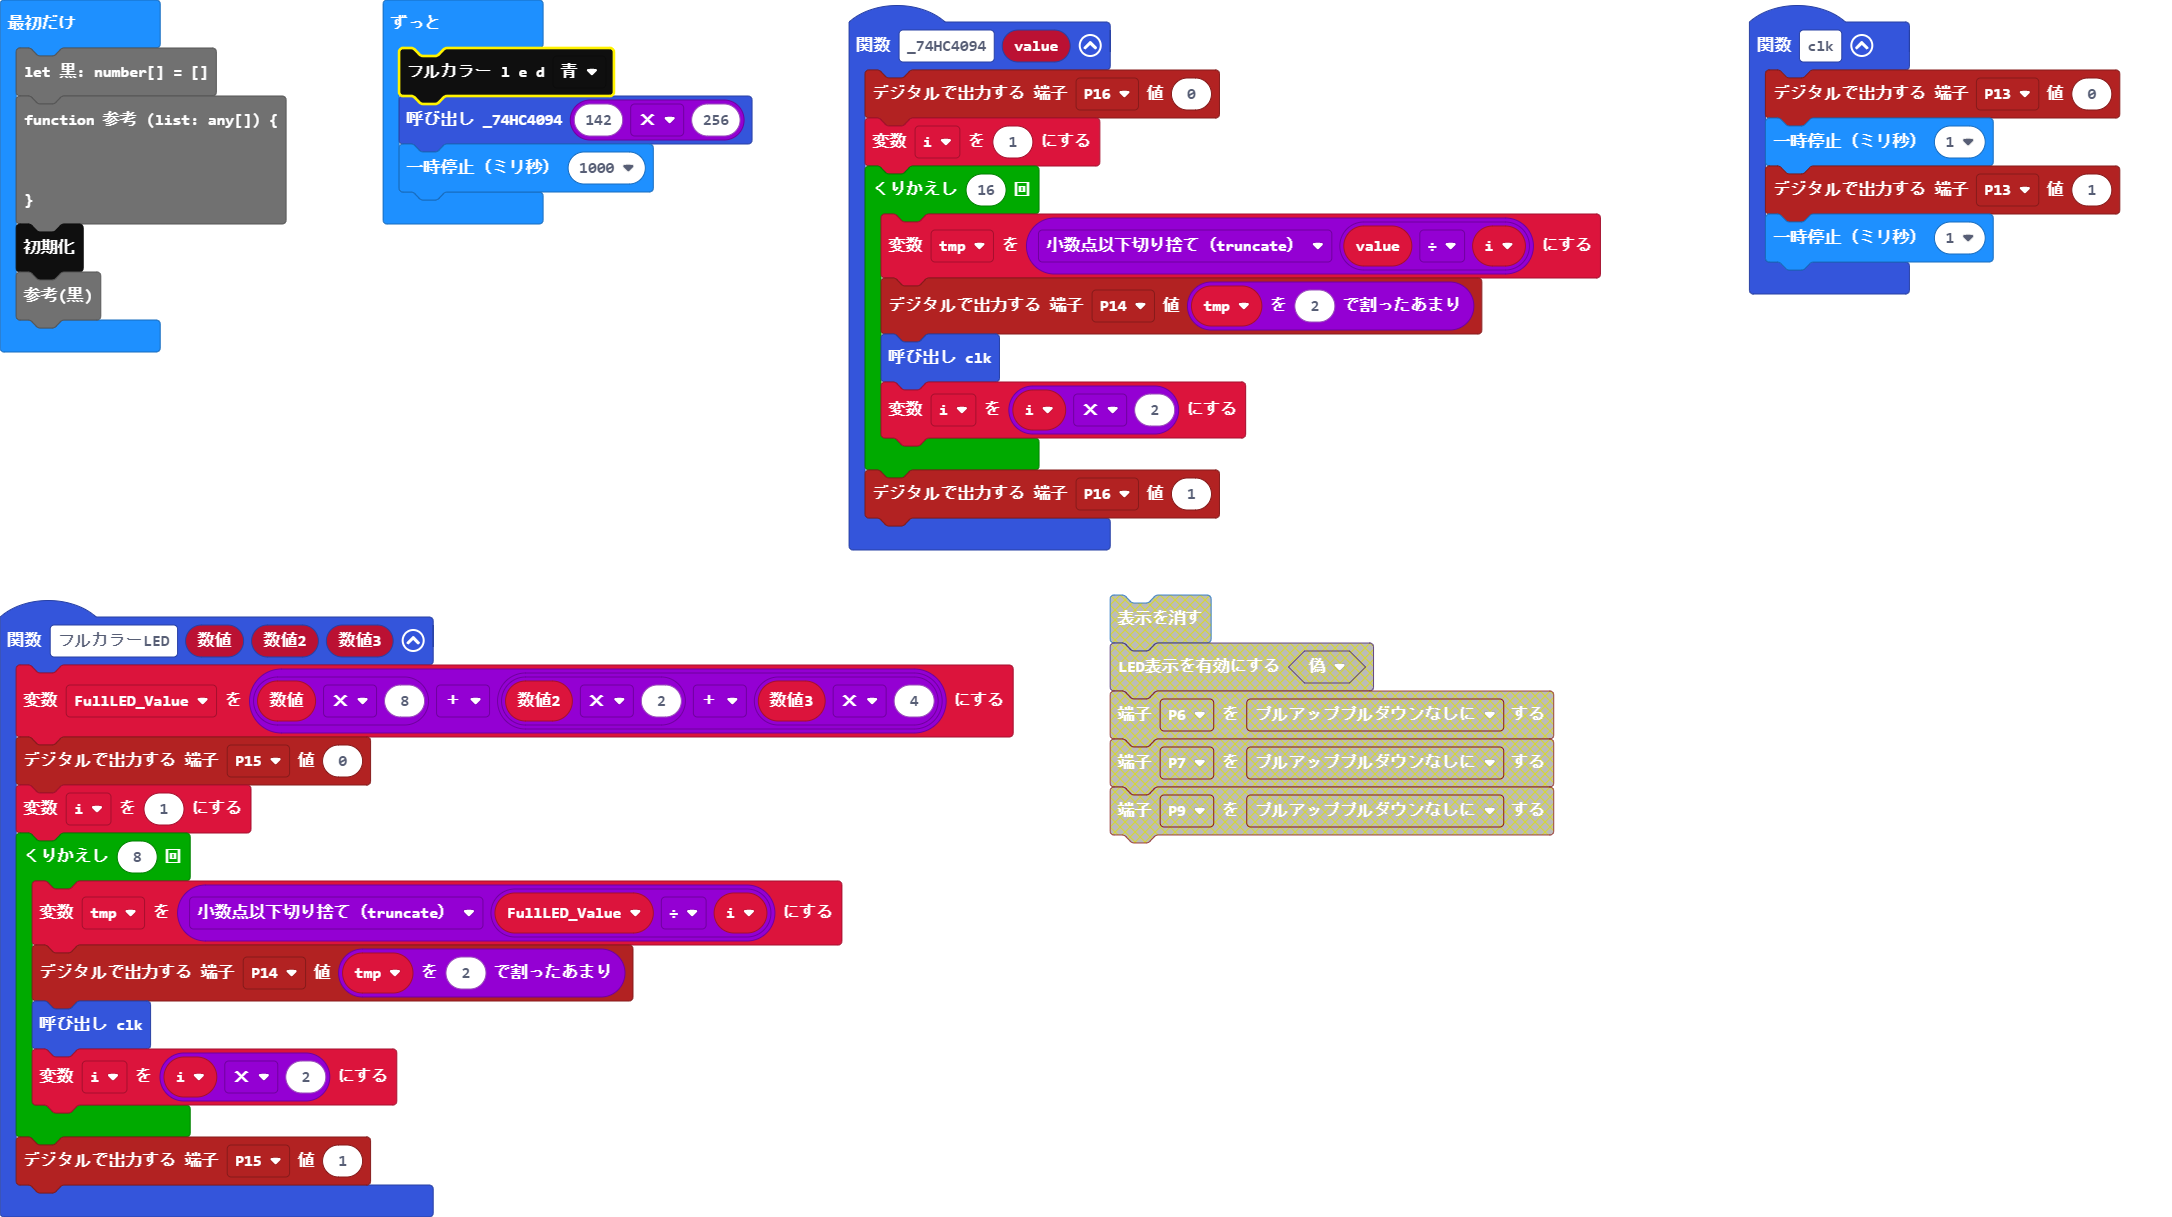
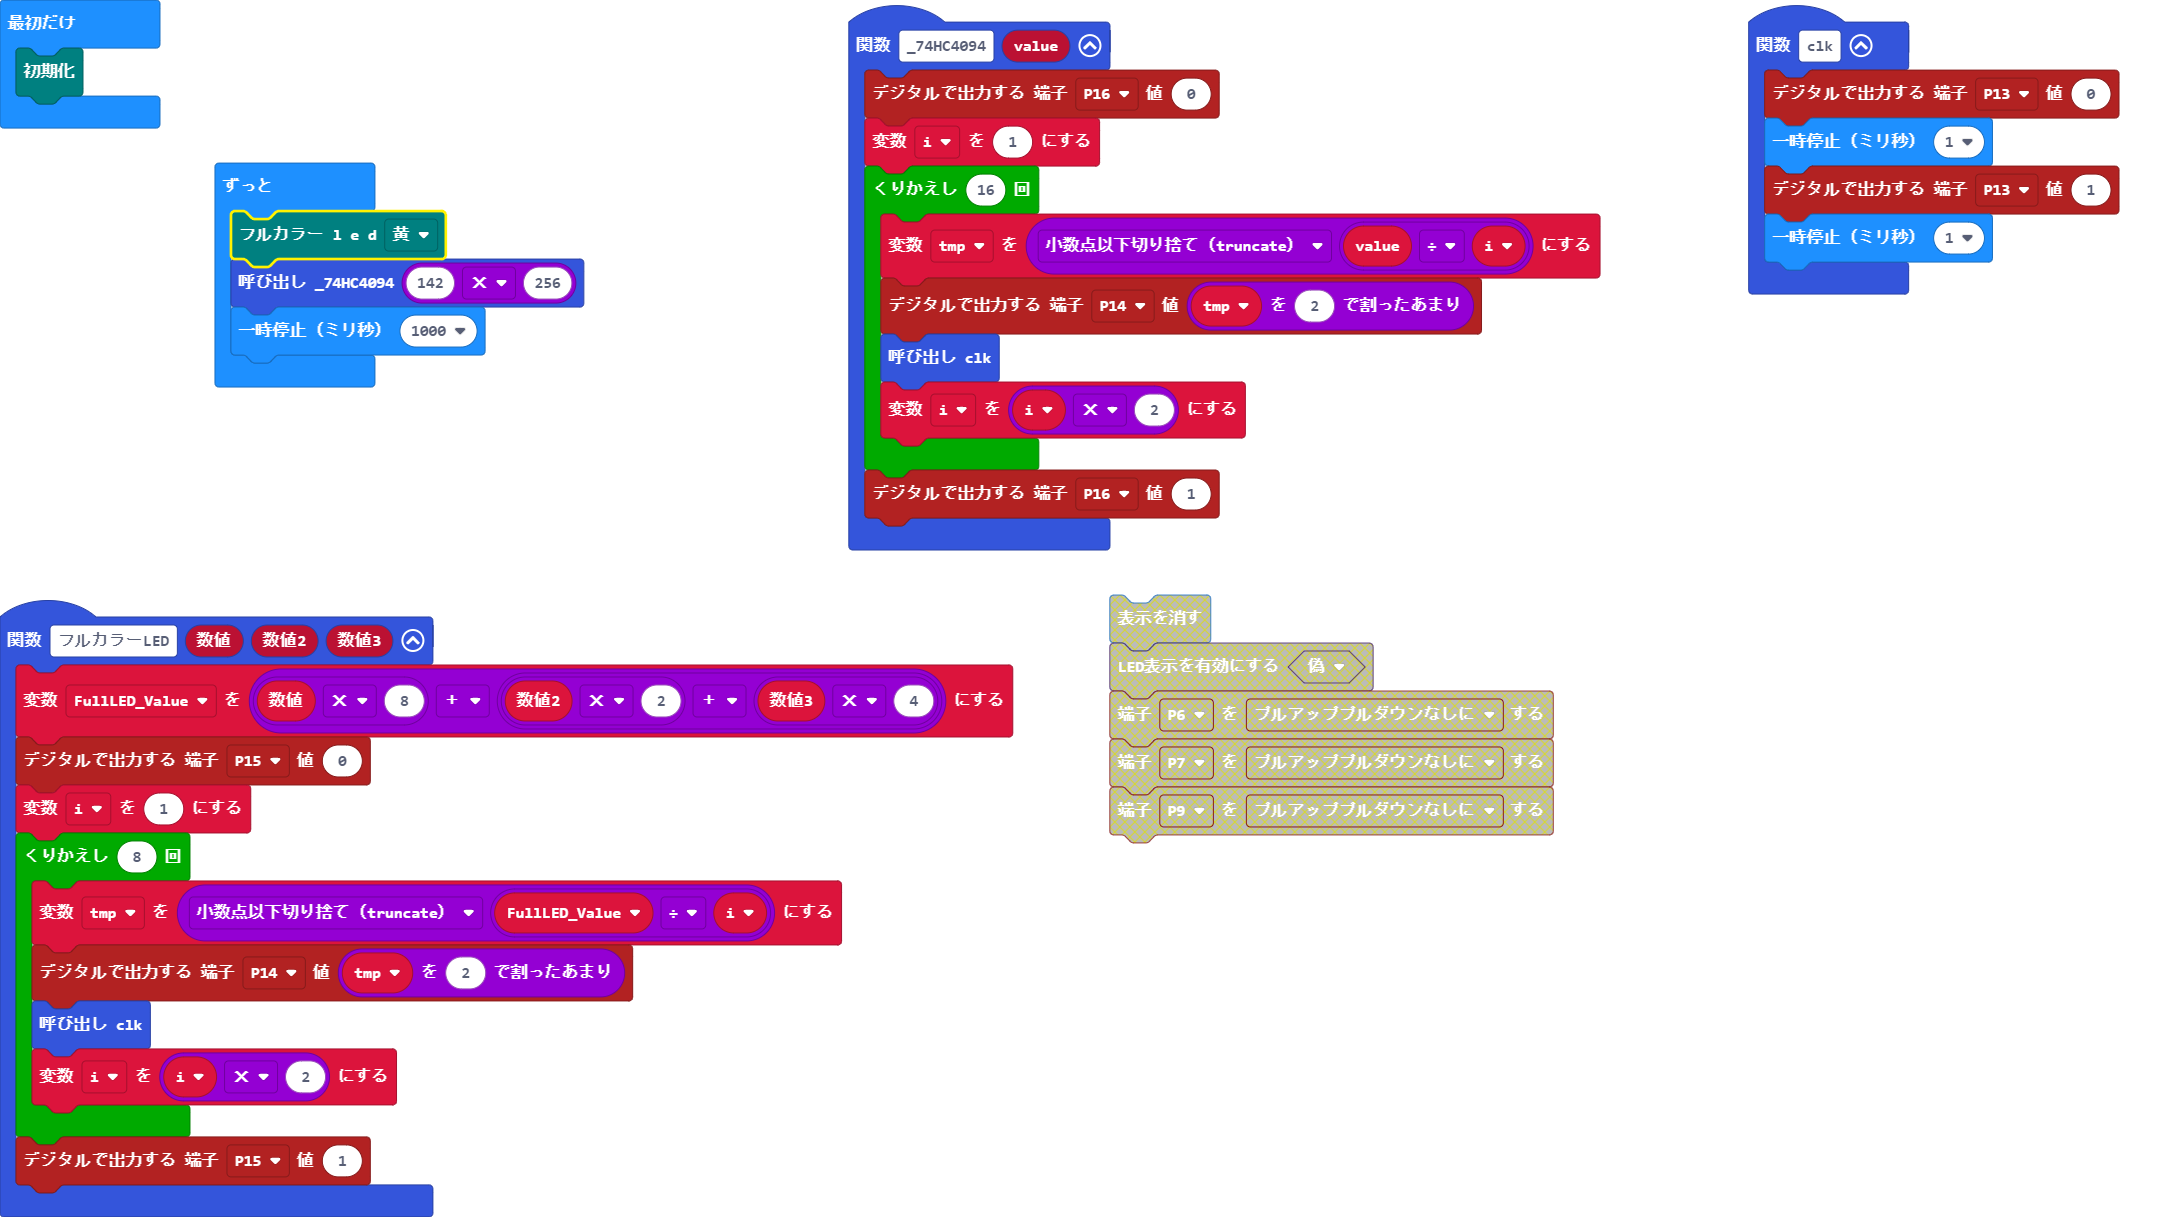
フルカラーＬＥＤブロックの改良

diff --git a/custom.ts b/custom.ts
@@ -13,7 +13,7 @@ enum color_type {
     //% block="緑"
     green,
     //% block="紫"
-    mazenta,
+    magenta,
     //% block="水色"
     cyan,
     //% block="黄"
@@ -25,7 +25,7 @@ enum color_type {
 /**
  * Custom blocks
  */
-//% weight=100 color=#0f0f0f icon="\uf076" block="ものづくりコンテスト"
+//% weight=100 color=#008080 icon="\uf076" block="ものづくりコンテスト"
 namespace custom {
     /**
      * TODO: describe your function here
@@ -46,28 +46,28 @@ namespace custom {
     //% block
     export function フルカラーLED(c:color_type): void {
         switch(c){
-            case 10:
-                FullLED_Value = 80
-                break;
-            case 1:
+            case color_type.black:
+                FullLED_Value = 0
+            break;
+            case color_type.red:
                 FullLED_Value= 8
             break;
-            case 2:
+            case color_type.blue:
                 FullLED_Value= 4
             break;
-            case 3:
+            case color_type.green:
                 FullLED_Value = 2
             break;
-            case 4:
+            case color_type.magenta:
                 FullLED_Value = 12
             break;
-            case 5:
+            case color_type.cyan:
                 FullLED_Value = 6
             break;
-            case 6:
+            case color_type.yellow:
                 FullLED_Value = 10
             break;
-            case 7:
+            case color_type.white:
                 FullLED_Value = 14
             break;
         }

diff --git a/main.ts b/main.ts
@@ -30,14 +30,9 @@ function フルカラーLED (数値: number, 数値2: number, 数値3: number) {
 let FullLED_Value = 0
 let tmp = 0
 let i = 0
-let 黒: number[] = []
-function 参考 (list: any[]) {
-	
-}
 custom.initialize()
-参考(黒)
 basic.forever(function () {
-    custom.フルカラーLED(color_type.blue)
+    custom.フルカラーLED(color_type.yellow)
     _74HC4094(142 * 256)
     basic.pause(1000)
 })
